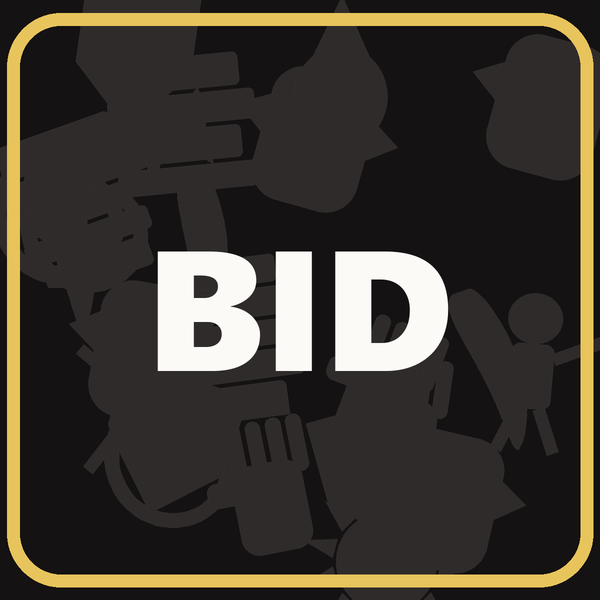
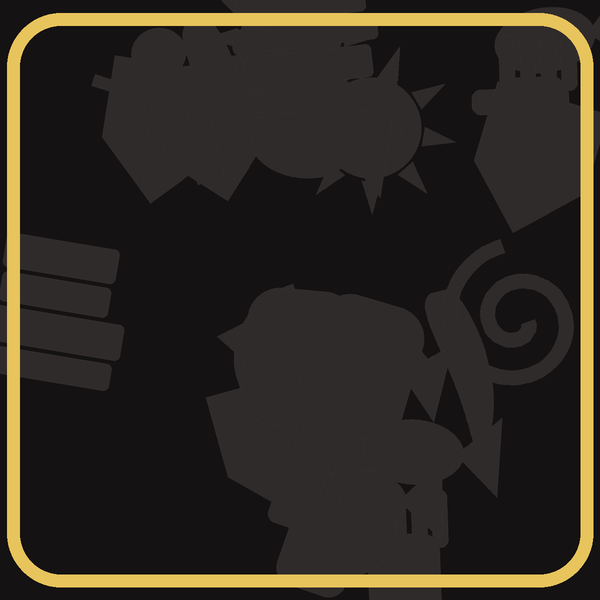
Fix unreadable BID/MISSIONS labels and reposition the toggle and rulebook
Confirmed the rulebook's PDF viewer itself works correctly (opens, flips
pages, locked in place as intended, matches other mods) - the reported
problems were all placement and a text/button collision, not the PDF
object's actual function.

- Both "BID" and "MISSIONS" were baked centre-screen into their tile's
  artwork, directly under a runtime button also centred there - the
  overlap read as garbled, half-covered text. Removed the baked "BID"
  entirely (the number row and big pick display already say what the
  tile is for); moved "MISSIONS" to the top edge and shrank its button
  so they no longer occupy the same space. plaque() now supports
  title=None (skip it) and title_y (move it off-centre).

- POS_MTOGGLE clipped into the table. It shared a z with POS_BUTTON,
  which is fine - the shared trait with what actually broke was high
  |x| (16), in the same region the corner-cap estimate has already
  been shown to be too generous. Moved to low |x| instead of guessing
  a new number near the same edge.

- The rulebook's second position was reported as "hidden"/"wrong place"
  - not broken, just tucked away deep in the same z=-12.5/-15 band the
  toggle also had trouble in. Moved to the z=-9 row, next to Numbered
  Cards - the one part of the layout with several objects confirmed
  clearly visible across every screenshot so far.

diff --git a/art.py b/art.py
@@ -318,11 +318,21 @@ def mission_card(title, body, cards, expert=False):
 
 
 def plaque(cw, ch, title, ground=(20, 18, 18), accent=(232, 196, 92),
-           chilli=False, title_frac=0.30):
-    """Dark tile used for the in-world control objects: dibbers, round button."""
+           chilli=False, title_frac=0.30, title_y=0.5):
+    """Dark tile used for the in-world control objects: dibbers, round button.
+
+    `title=None` skips the baked title entirely - for a tile whose meaning is
+    already carried by a runtime button overlay (the dibber's number row, for
+    instance), baking a second, static label into the same central space just
+    gives the two something to visually collide with. `title_y` moves the
+    title off-centre (as a fraction of height) for tiles where a button DOES
+    still need the centre - see mission_toggle, whose title used to sit right
+    under its own on/off button.
+    """
     w, h = cw * SS, ch * SS
+    seed_text = title or "plaque"
     tile = Image.new("RGBA", (w, h), ground + (255,))
-    tile.alpha_composite(glyphs.scatter((w, h), seed=stable_hash(title) % 7777,
+    tile.alpha_composite(glyphs.scatter((w, h), seed=stable_hash(seed_text) % 7777,
                                         colour=shade(ground, 2.4),
                                         count=26, glyph_px=int(min(w, h) * 0.30)))
     d = ImageDraw.Draw(tile)
@@ -345,8 +355,9 @@ def plaque(cw, ch, title, ground=(20, 18, 18), accent=(232, 196, 92),
     else:
         tx = w // 2
 
-    fnt = fit_font(FONT_BLACK, title, w * (0.62 if chilli else 0.80), h * title_frac)
-    d.text((tx, h // 2), title, font=fnt, fill=PAPER, anchor="mm")
+    if title:
+        fnt = fit_font(FONT_BLACK, title, w * (0.62 if chilli else 0.80), h * title_frac)
+        d.text((tx, int(h * title_y)), title, font=fnt, fill=PAPER, anchor="mm")
     return tile.resize((cw, ch), Image.LANCZOS).convert("RGB")
 
 
@@ -509,8 +520,11 @@ def generate(missions, progress=True):
     # and two different guesses at it both still came back visibly squashed
     # in play. Square avoids the question entirely, which is what ~95% of
     # real Custom_Tiles do (635 of 666 checked).
+    # No baked title: the runtime number row and big-pick display already say
+    # what this tile is for, and a static "BID" fighting them for the same
+    # central space read as garbled, half-covered text in play.
     p = os.path.join(ASSETS, "dibber.png")
-    plaque(600, 600, "BID", title_frac=0.20).save(p, "PNG", optimize=True)
+    plaque(600, 600, None).save(p, "PNG", optimize=True)
     out["dibber"] = p
 
     p = os.path.join(ASSETS, "round_button.png")
@@ -523,8 +537,11 @@ def generate(missions, progress=True):
     out["dealer"] = p
 
     p = os.path.join(ASSETS, "mission_toggle.png")
+    # Title pushed up near the top edge (title_y) rather than centred, so the
+    # ON/OFF toggle button - which needs the centre - stops sitting directly
+    # on top of it. Centred was what made "MISSIONS" unreadable in play.
     plaque(500, 500, "MISSIONS", ground=(26, 24, 20), accent=(232, 196, 92),
-           title_frac=0.16).save(p, "PNG", optimize=True)
+           title_frac=0.13, title_y=0.20).save(p, "PNG", optimize=True)
     out["mtoggle"] = p
 
     # mats are backdrops, so they stay quiet: dark, thin border, small type

diff --git a/build_save.py b/build_save.py
@@ -92,7 +92,13 @@ POS_DISCARD = (25.0, 1.6, -9.0)
 POS_REVEAL = (0.0, 1.6, -9.0)
 POS_BUTTON = (0.0, 1.3, -12.5)
 POS_PILIS = (0.0, 1.6, -5.0)
-POS_MTOGGLE = (16.0, 1.3, -12.5)
+# Was (16, -12.5): visibly clipped into the table/rail in play. POS_BUTTON
+# sits at the same z=-12.5 but x=0 and is fine, which points at the rail
+# curving inward more at higher |x| (consistent with the corner-cap
+# inaccuracy noted above) rather than z=-12.5 itself being the problem.
+# Moved to lower |x|, comfortably inside the straight-side, no-guesswork
+# region rather than re-testing the same edge a second time.
+POS_MTOGGLE = (9.0, 1.3, -9.0)
 
 _used_guids = set()
 
@@ -484,16 +490,15 @@ def build(missions, urls, out_dir, aspects=None):
     objects.append(deck(2, miss_cards, "Missions", "PILI:MISSION", cd_miss, POS_MISSION))
 
     objects.append(pili_bag(urls["pili"]))
-    # Previously sat at x=-32, deep in the curved end-cap, and clipped the
-    # rail - proof the FELT_Z=19 cap-radius estimate is too generous out
-    # there (POS_DISCARD at distance 10.8 from the cap centre is fine;
-    # x=-32 at distance 15.8 clips - the real boundary is somewhere between,
-    # and guessing a second time inside that same uncertain region isn't
-    # worth it). Moved onto the STRAIGHT side instead (|x| well under 19),
-    # where the boundary is a plain |z| <= FELT_Z check with no cap-radius
-    # guesswork at all. rot_y flipped from 180 to 0 - the cover was
-    # reported backwards; still unverified until it's seen in-game.
-    objects.append(rulebook_pdf(urls["rulebook"], (8.0, 1.3, -15.0), rot_y=0.0))
+    # The PDF viewer itself is confirmed working (opens, flips pages, locked
+    # in place as intended) - the only remaining problem was placement. Its
+    # first home (x=-32) clipped the rail in the curved end-cap; its second
+    # (z=-15) was still reported as tucked out of the way, and sat in the
+    # same deep z=-12.5/-15 band where POS_MTOGGLE separately clipped too.
+    # Moved onto the z=-9 row instead, next to Numbered Cards - the one band
+    # of the dealer's cut-out with several objects confirmed clearly visible
+    # and trouble-free across every screenshot so far.
+    objects.append(rulebook_pdf(urls["rulebook"], (-9.0, 1.3, -9.0), rot_y=0.0))
 
     # snap points for played cards, ringed tightly around the middle
     snaps = []
